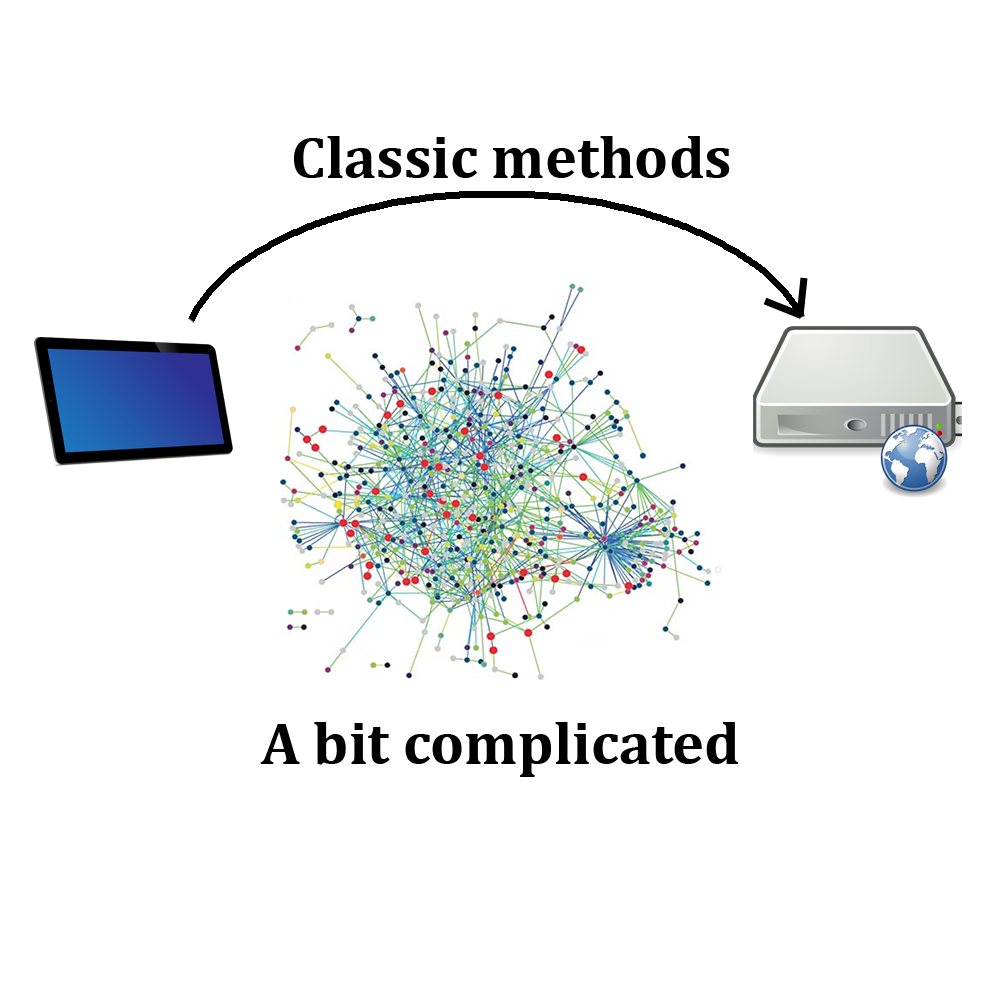
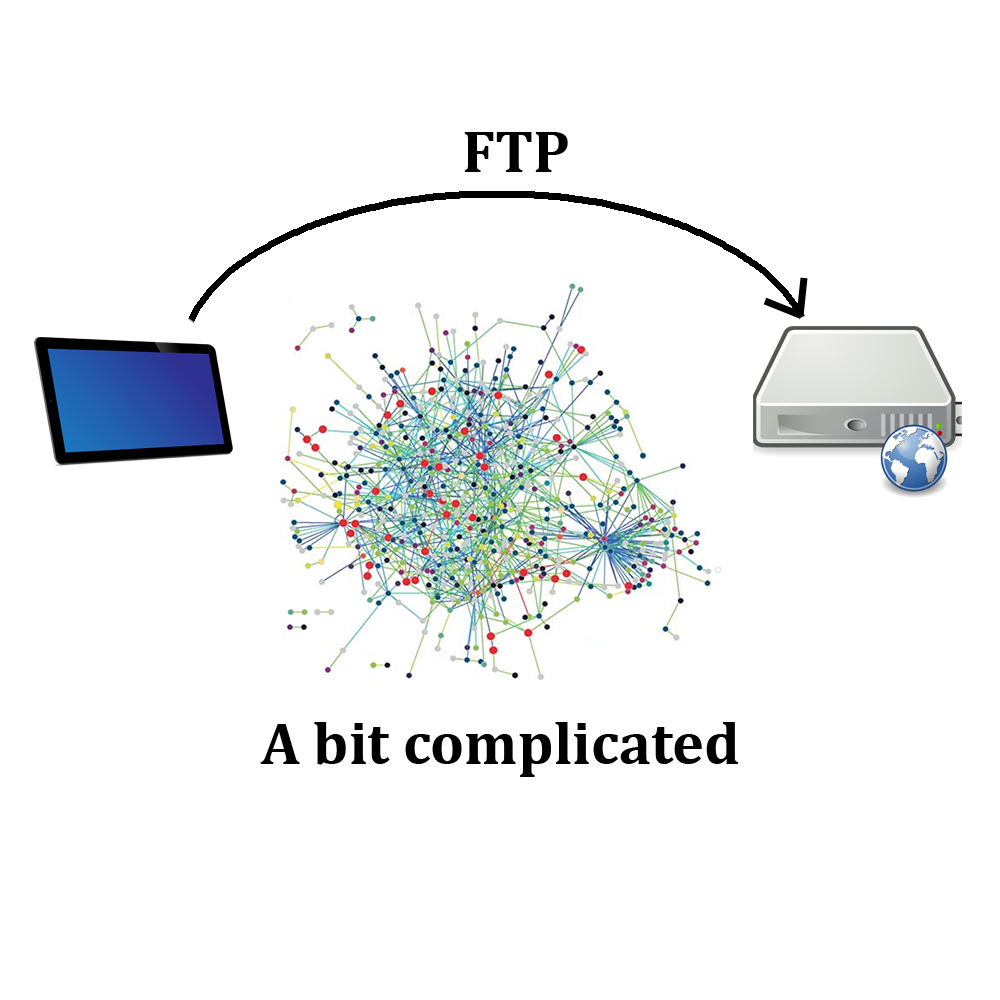
netwoooork

Changed region(s): [[0.279, 0.124, 0.744, 0.186]]

diff --git a/Diapo_EtudePratique.tex b/Diapo_EtudePratique.tex
@@ -322,14 +322,20 @@
 			
 		\subsection{How will it work?}
 		
-			
-		
-			\begin{frame}{What do we have ?}
-				\centerline{\includegraphics[height=150pt]{images/network/server.png}}
+			\begin{frame}{What is already set up ?}
+					\centerline{\includegraphics[height=100pt]{images/network/server.png}
+					\pause
+					\includegraphics[height=200pt]{images/network/scenebefore.png}}
 			\end{frame}
 			
-			\begin{frame}{What do we want ?}
+			\begin{frame}{The purpose: sending the model}
 				\centerline{\includegraphics[height=150pt]{images/network/sending_model.png}}
+			\end{frame}
+			
+			\begin{frame}{The purpose: catching the model}
+				\includegraphics[height=125pt]{images/network/scenebefore.png}
+				\includegraphics[height=50pt]{images/network/arrow.png}
+				\includegraphics[height=125pt]{images/network/scene.png}
 			\end{frame}
 			
 		\subsection{In the server}
@@ -338,7 +344,7 @@
 				\begin{itemize}	
 					\item Little plugin
 					\item Only receive data from the tablet
-					\item Integrated in an Unity application
+					\item Integrated in the 3D scene
 				\end{itemize}	
 											
 			\end{frame}
@@ -368,8 +374,8 @@
 					\begin{multicols}{2}
 						HTTP:
 						\begin{itemize}
-							\item Used for: Getting data from a server
-							\item Problem: Posting specific data to a server
+							\item Use: Get data from a server
+							\item Problem: Only post specific files to a server
 						\end{itemize}
 						\pause
 						
@@ -379,7 +385,7 @@
 						\columnbreak
 						FTP:
 						\begin{itemize}
-							\item Used for: Sending data to a server
+							\item Use: Send files to a server
 							\item Problem: Too complex for the user
 						\end{itemize}
 						\pause
@@ -391,11 +397,12 @@
 			
 		\begin{frame}{Unity Assets}
 			\begin{itemize}
-				\item Unity Assets : Java Class look alike
+				\item Unity Assets : looks like Java Classes
 				\item Well implemented
 				\item Documentation available
 				\pause
 				\item \textbf{\underline{Facilitate Unity to Unity Networking}}
+				\pause
 			\end{itemize}
 			\centerline{\includegraphics[height=75pt]{images/network/easier.png}}
 		\end{frame}
